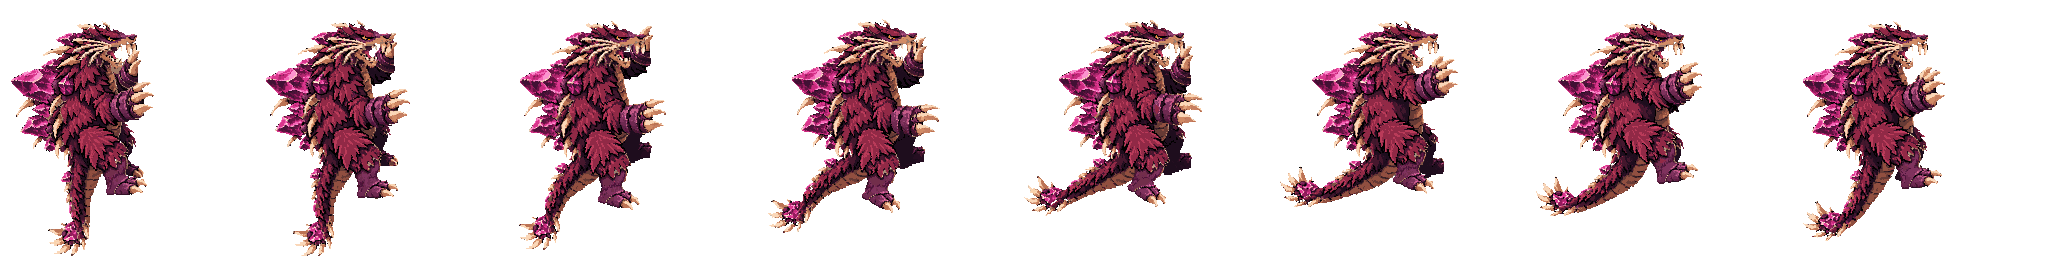
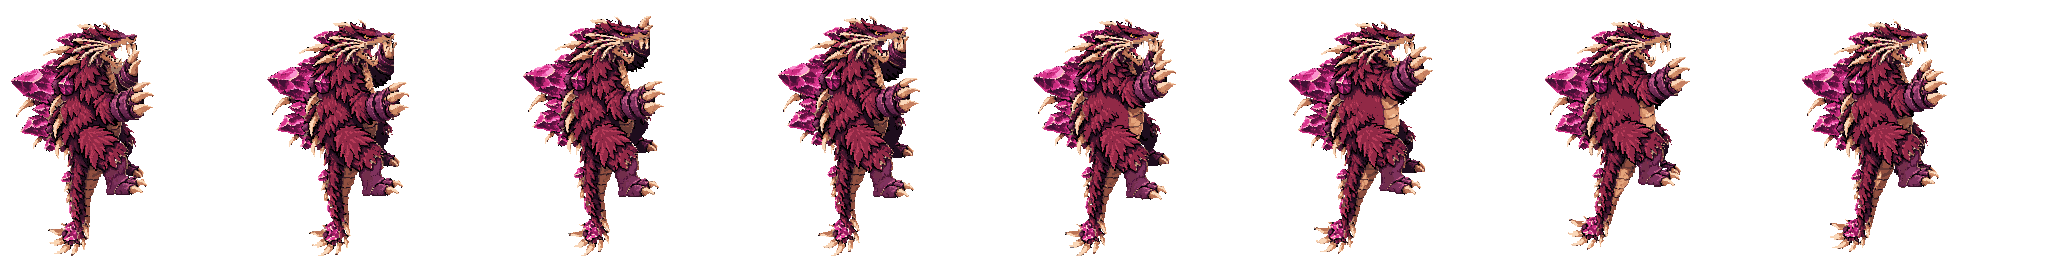
Add Mogurodon Stage 3 Ultimate and steadier climb loop
Ultimate roar (crash on impact frame 5) and ground-pound loop on the padded
base, eye restored. Climb loop re-rolled with the tail held still so the
claws stay on the wall line. Registered in stages[3].

Claude-Session: https://claude.ai/code/session_01SJ9dCxxotxnRNtgV1QVQbf

diff --git a/src/presentation.ts b/src/presentation.ts
@@ -29,7 +29,7 @@ const images=new Map<string,HTMLImageElement>();
 // full-frame 256px-wide strip (default 1) and `anchor` the frame x that lines up with the kaiju's origin (default: frame centre).
 type Strip={src:string,frames:number,fps:number,once?:boolean,impact?:number,scale?:number,anchor?:number};
 // Each kaiju has a base form (`width`/`anims`) plus optional per-stage overrides in `stages`. A stage without an entry uses the base form.
-// Mogurodon: the base art is its Stage 2 form; `stages[1]` (animated incrementally) and `stages[3]` (everything except the Ultimate so far) override Stages 1 and 3.
+// Mogurodon: the base art is its Stage 2 form; `stages[1]` (animated incrementally) and `stages[3]` (every strip) override Stages 1 and 3.
 // Within a stage form a missing animation falls back to that form's own `idle`, so a new form can ship with only a few strips.
 type Form={width:number,anims:Record<string,Strip>};
 const S1_PAD={scale:205/256,anchor:10+128*205/256};
@@ -77,7 +77,8 @@ export const SPRITES:Record<string,Form&{stages?:Record<number,Form>}>={
    rangedStand:{src:'assets/mogurodon-s3-ranged-stand.png',frames:8,fps:18,once:true,...S1_PAD},rangedCrouch:{src:'assets/mogurodon-s3-ranged-crouch.png',frames:8,fps:18,once:true},
    crouch:{src:'assets/mogurodon-s3-crouch.png',frames:4,fps:6},crouchDown:{src:'assets/mogurodon-s3-crouch-down.png',frames:5,fps:22,once:true},crouchUp:{src:'assets/mogurodon-s3-crouch-up.png',frames:5,fps:22,once:true},
    climbGrab:{src:'assets/mogurodon-s3-climb-grab.png',frames:5,fps:20,once:true,...S1_PAD},climb:{src:'assets/mogurodon-s3-climb.png',frames:8,fps:12,...S1_PAD},
-   climbMantle:{src:'assets/mogurodon-s3-climb-mantle.png',frames:9,fps:20,once:true,...S1_PAD}}}}},
+   climbMantle:{src:'assets/mogurodon-s3-climb-mantle.png',frames:9,fps:20,once:true,...S1_PAD},
+   ultRoar:{src:'assets/mogurodon-s3-ult-roar.png',frames:8,fps:14,once:true,impact:5,...S1_PAD},ultPound:{src:'assets/mogurodon-s3-ult-pound.png',frames:8,fps:16,...S1_PAD}}}}},
 };
 // Resolves the form drawn for a kaiju at a stage (stage omitted = base form).
 function form(name:string,stage?:number):Form|undefined{const s=SPRITES[name];return s&&((stage&&s.stages?.[stage])||s);}

diff --git a/README.md b/README.md
@@ -55,7 +55,7 @@ Score is earned points minus actual HP damage penalty, including healed damage. 
 
 **Art:** `public/assets/mogurodon.png` is the first final sprite (transparent, keyed from the supplied render and downscaled to 444×231). Sprites are registered in `SPRITES` in `src/presentation.ts` and used by gameplay, selection previews and the ending scene; kaiju without a sprite fall back to the geometric silhouettes. Mogurodon has an 8-frame idle loop (`public/assets/mogurodon-idle.png`, 256×144 frames, 8 fps) generated with PixelLab from the base sprite via `tools/pixellab_animate.py`; and an 8-frame all-fours walk loop (`public/assets/mogurodon-walk.png`, 10 fps, generated from a planted all-fours pose with that pose as both first and last frame so it closes cleanly) plays while moving on the ground. The light combo plays one-shot strips per hit: 1 overhead right-arm swipe (`mogurodon-swipe-right.png`, 8 frames, 24 fps), 2 left-arm swipe with the far claw raised behind the head (`mogurodon-swipe-left.png`, 10 frames, 26 fps; built from a PixelLab pose-edit keyframe plus two animated segments), 3 lunging bite (`mogurodon-bite.png`, 8 frames, 20 fps). All three start and end on idle frame 0, and idle/walk restart at frame 0 when they begin, so attacks blend in and out of the idle without a pose snap. Heavy (K): holding plays `mogurodon-heavy-rear.png` once (rear back onto the haunches), then loops `mogurodon-heavy-hold.png` while charging; release plays `mogurodon-heavy-slam.png` (overhead slam into the ground with dust, settling back to idle). These strips are 256x192 for headroom. Ranged (L): tail whips forward and flings a spike — `mogurodon-ranged-stand.png` standing (9 frames), `mogurodon-ranged-crouch.png` while crouched (8 frames), both 20 fps with the tail sweeping forward along the flank; the projectile is drawn as a bone-white quill. Crouch (S): `mogurodon-crouch-down.png` into `mogurodon-crouch.png` (breathing loop, drawn full size instead of the old 0.6 squash), `mogurodon-crouch-up.png` (reversed) on release. Jump: `mogurodon-jump-rise.png` (push-off into the leap, only when launched upward), `mogurodon-jump-air.png` (airborne loop for any time off the ground), `mogurodon-jump-land.png` (impact and recover) on touchdown; 256x192, bottom-aligned so physics alone moves him. Climb (W): `mogurodon-climb-grab.png` (swing up onto the wall), `mogurodon-climb.png` (hand-over-hand loop while ascending), `mogurodon-climb-mantle.png` (haul over onto the roof into idle); 256x256, facing the wall being climbed. The loop pauses while hanging still, and jumping off goes straight into the jump air loop. Seismic Rupture (U): `mogurodon-ult-roar.png` (rear up and roar, then slam down with a burst) followed by `mogurodon-ult-pound.png` (alternating ground-pounding loop, roughly one slam per fissure pulse) for the rest of the 2.4s Ultimate. The first fissure is delayed to the roar's crash-down (impact frame 5, ~0.36s), so Mogurodon's Ultimate sends 9 fissure pulses instead of 10. `mogurodon.png` is kept as the higher-res base/reference.
 
-**Per-stage forms:** `SPRITES[name]` is the base form (for Mogurodon, the art above is its Stage 2 design, also used for Stage 3); `stages[n]` overrides it for one stage. Inside a stage form a missing strip falls back to that form's own `idle`, while gameplay timing (`animDuration`/`animImpact`) borrows the base strip's, so combat is unchanged until a form's strips are animated. Mogurodon Stage 1 (`assets/mogurodon-s1.png`, 256x192, bottom-aligned) is the base; its 8-frame idle (`assets/mogurodon-s1-idle.png`, 8 fps) and walk (`assets/mogurodon-s1-walk.png`, 10 fps, base pose as first and last frame) loops cost one PixelLab generation each. Light combo (`light1`/`light2`/`light3`, keyed by hit order so each form picks its own moves): near (left) paw swipe, far (right) paw swipe, lunging bite (`assets/mogurodon-s1-light1..3.png`) and heavy: `assets/mogurodon-s1-heavy-rear.png` (onto the hind legs) and `assets/mogurodon-s1-heavy-slam.png` (crash and settle) are cut from one generated rear-and-slam strip, with `assets/mogurodon-s1-heavy-hold.png` (straining 4-frame loop) generated from the peak pose. Stage 1 has no tail: its ranged shot (`assets/mogurodon-s1-ranged-stand.png`) lowers the head and arches the back like a hissing cat, firing quills off the back; the projectile spawn and timing are unchanged. Crouch: `assets/mogurodon-s1-crouch-down.png` (flat stalking crouch, ~61% of standing height like Stage 2), `assets/mogurodon-s1-crouch.png` (breathing loop), `assets/mogurodon-s1-crouch-up.png` (reversed), and the crouched shot `assets/mogurodon-s1-ranged-crouch.png` (hunches into the arch from the crouch, fires, flattens back). Climb: `assets/mogurodon-s1-climb-grab.png`, `assets/mogurodon-s1-climb.png` (hand-over-hand loop) and `assets/mogurodon-s1-climb-mantle.png`, 256x256 padded strips with the front claws on the hitbox edge; the grab is shifted onto the wall line and the mantle pre-shifted to cancel the hitbox sliding onto the roof. `tools/remove_wall.py` erases the wall post PixelLab drew into the grab. The full-frame base touches the frame edge, so strips that reach forward (light1, light3, heavySlam) are generated from a padded base, `assets/mogurodon-s1-pad.png` (205px wide at x=10, made with `tools/prep_form_base.py --width 205 --x 10`), and registered with `scale`/`anchor` so they draw at the same size and position. Jump: `assets/mogurodon-s1-jump-rise.png` (9 frames, 24 fps) and `assets/mogurodon-s1-jump-air.png` (4-frame loop, 8 fps, generated from the rise's last frame) and `assets/mogurodon-s1-jump-land.png` (5 frames, 20 fps, air pose to base pose), bottom-aligned with `tools/bottom_align.py`. PixelLab washes out the gold eye after frame 0; `tools/fix_eye.py --ref assets/mogurodon-s1.png --radius 30` tracks the head and restores it. Animate further strips with `tools/pixellab_animate.py` and add strips to `stages[1].anims`. Mogurodon Stage 3 (`assets/mogurodon-s3.png`, 256x192, bottom-aligned, made with `tools/prep_form_base.py`) is the base; its 8-frame idle (`assets/mogurodon-s3-idle.png`, 8 fps) and walk (`assets/mogurodon-s3-walk.png`, 10 fps, base pose as first frame) are one PixelLab generation each, with the gold eye restored by `tools/fix_eye.py --ref assets/mogurodon-s3.png --region 65,90,205,240`. Light combo (`assets/mogurodon-s3-light1..3.png`, 8 frames each at 24/21/20 fps, one PixelLab generation per attempt): near paw strike with a pink crystal slash arc, far paw swipe, low stretching lunge-bite. light1 and light3 come from a padded base (`assets/mogurodon-s3-pad.png`, 205px wide at x=10) and use `S1_PAD`; light2 uses the full-frame base. light2's mid-swing frames turn the head toward the camera, so the eye stamp is limited to frames 0-3 and 7 (`fix_eye.py --only`). Heavy: one 16-frame rear-and-slam generation from the padded base (2 generations), cut into `assets/mogurodon-s3-heavy-rear.png` (frames 0-4, up onto the hind legs, 20 fps) and `assets/mogurodon-s3-heavy-slam.png` (frames 8-15, peak into the crash with a pink crystal burst, dust and recovery, 16 fps, hit lands one frame after release), plus `assets/mogurodon-s3-heavy-hold.png` (4-frame straining loop, 10 fps, generated from the peak pose with it as first and last frame). All padded (`S1_PAD`). The eye is only stamped on profile frames (rear 0-2, slam 4-7); it is hidden or washed out on the reared frames. Jump: `assets/mogurodon-s3-jump-rise.png` (9 frames, 24 fps: crouch, spring, extended leap), `assets/mogurodon-s3-jump-air.png` (4-frame loop, 8 fps, generated from the rise's last frame) and `assets/mogurodon-s3-jump-land.png` (5 frames, 20 fps, air pose into landing squash and recovery to the base pose), bottom-aligned with `tools/bottom_align.py` and the eye restored with `fix_eye.py --radius 40` (the head drops far in the crouch and squash). Full-frame, no padding. Ranged: `assets/mogurodon-s3-ranged-stand.png` (8 frames, 18 fps, padded `S1_PAD`) is the tail shot: the spiked crystal tail curls over the back and flings a crystal shard forward, then recovers (1 generation; a stray clipped shard fragment on frame 4 was erased, and the eye is only stamped on frames 0-2 and 5-7). The projectile spawn and timing are unchanged. Crouch: `assets/mogurodon-s3-crouch-down.png` (5 frames, 22 fps), `assets/mogurodon-s3-crouch.png` (4-frame breathing loop, 6 fps), `assets/mogurodon-s3-crouch-up.png` (crouch-down reversed) and the crouched tail shot `assets/mogurodon-s3-ranged-crouch.png` (8 frames, 18 fps, shard arcs up and over the back). Full-frame, bottom-aligned. The crouch only reaches ~84% of standing height in the art (the tall back crystal dominates the silhouette; the first attempt got 92%, three re-rolls with a flat-against-the-ground prompt gave ~84%), though the body itself is flat. The crouch pose lost its eye, so `crouch0-eye` (the last crouch-down frame with the base eye stamped on by hand) was the `fix_eye.py` reference for the crouch strips (`--region 130,155,205,240`); crouch-down frame 2 is left unstamped because the tracker missed the head there, and a stray shard sliver on ranged-crouch frame 6 was erased. Climb: `assets/mogurodon-s3-climb-grab.png` (5 frames, 20 fps), `assets/mogurodon-s3-climb.png` (8-frame loop, 12 fps) and `assets/mogurodon-s3-climb-mantle.png` (9 frames, 20 fps), 256x256 padded strips (`S1_PAD`) generated from the padded base placed bottom-aligned in a 256x256 frame (`pad256`; 5 generations: the first grab came out with a long trailing tail that could not fit the wall line plus a painted wall, so it was re-rolled with two seeds and a tail-hanging-straight-down prompt, then one generation each for the loop and the mantle from the chosen grab pose). The front claws sit on the hitbox edge (frame x=153, hitbox half-width 24 in Stage 1 frame px) for the vertical frames; the grab's vertical frames and the loop are shifted onto that line (and feet to the bottom row), the mantle is pre-shifted 25px left of that and decays to 0 by the base-pose last frame to cancel the hitbox sliding onto the roof (`game.ts` moves it by 0.3 body widths on mantling). Shifts are clamped so the tail is never clipped, so on loop frames 3-5 (the tail kick) the claws drift out to x~178 and mantle frame 0 sits at x~142 instead of 128. The eye was stamped by hand into the climbing pose (`cgpose-eye`) and restored with `fix_eye.py` (frames 0-6 of the mantle use it, frames 6-8 the padded base). Add further strips to `stages[3].anims`. `tools/prep_form_base.py` keys a black-background render and fits it into a frame for that.
+**Per-stage forms:** `SPRITES[name]` is the base form (for Mogurodon, the art above is its Stage 2 design, also used for Stage 3); `stages[n]` overrides it for one stage. Inside a stage form a missing strip falls back to that form's own `idle`, while gameplay timing (`animDuration`/`animImpact`) borrows the base strip's, so combat is unchanged until a form's strips are animated. Mogurodon Stage 1 (`assets/mogurodon-s1.png`, 256x192, bottom-aligned) is the base; its 8-frame idle (`assets/mogurodon-s1-idle.png`, 8 fps) and walk (`assets/mogurodon-s1-walk.png`, 10 fps, base pose as first and last frame) loops cost one PixelLab generation each. Light combo (`light1`/`light2`/`light3`, keyed by hit order so each form picks its own moves): near (left) paw swipe, far (right) paw swipe, lunging bite (`assets/mogurodon-s1-light1..3.png`) and heavy: `assets/mogurodon-s1-heavy-rear.png` (onto the hind legs) and `assets/mogurodon-s1-heavy-slam.png` (crash and settle) are cut from one generated rear-and-slam strip, with `assets/mogurodon-s1-heavy-hold.png` (straining 4-frame loop) generated from the peak pose. Stage 1 has no tail: its ranged shot (`assets/mogurodon-s1-ranged-stand.png`) lowers the head and arches the back like a hissing cat, firing quills off the back; the projectile spawn and timing are unchanged. Crouch: `assets/mogurodon-s1-crouch-down.png` (flat stalking crouch, ~61% of standing height like Stage 2), `assets/mogurodon-s1-crouch.png` (breathing loop), `assets/mogurodon-s1-crouch-up.png` (reversed), and the crouched shot `assets/mogurodon-s1-ranged-crouch.png` (hunches into the arch from the crouch, fires, flattens back). Climb: `assets/mogurodon-s1-climb-grab.png`, `assets/mogurodon-s1-climb.png` (hand-over-hand loop) and `assets/mogurodon-s1-climb-mantle.png`, 256x256 padded strips with the front claws on the hitbox edge; the grab is shifted onto the wall line and the mantle pre-shifted to cancel the hitbox sliding onto the roof. `tools/remove_wall.py` erases the wall post PixelLab drew into the grab. The full-frame base touches the frame edge, so strips that reach forward (light1, light3, heavySlam) are generated from a padded base, `assets/mogurodon-s1-pad.png` (205px wide at x=10, made with `tools/prep_form_base.py --width 205 --x 10`), and registered with `scale`/`anchor` so they draw at the same size and position. Jump: `assets/mogurodon-s1-jump-rise.png` (9 frames, 24 fps) and `assets/mogurodon-s1-jump-air.png` (4-frame loop, 8 fps, generated from the rise's last frame) and `assets/mogurodon-s1-jump-land.png` (5 frames, 20 fps, air pose to base pose), bottom-aligned with `tools/bottom_align.py`. PixelLab washes out the gold eye after frame 0; `tools/fix_eye.py --ref assets/mogurodon-s1.png --radius 30` tracks the head and restores it. Animate further strips with `tools/pixellab_animate.py` and add strips to `stages[1].anims`. Mogurodon Stage 3 (`assets/mogurodon-s3.png`, 256x192, bottom-aligned, made with `tools/prep_form_base.py`) is the base; its 8-frame idle (`assets/mogurodon-s3-idle.png`, 8 fps) and walk (`assets/mogurodon-s3-walk.png`, 10 fps, base pose as first frame) are one PixelLab generation each, with the gold eye restored by `tools/fix_eye.py --ref assets/mogurodon-s3.png --region 65,90,205,240`. Light combo (`assets/mogurodon-s3-light1..3.png`, 8 frames each at 24/21/20 fps, one PixelLab generation per attempt): near paw strike with a pink crystal slash arc, far paw swipe, low stretching lunge-bite. light1 and light3 come from a padded base (`assets/mogurodon-s3-pad.png`, 205px wide at x=10) and use `S1_PAD`; light2 uses the full-frame base. light2's mid-swing frames turn the head toward the camera, so the eye stamp is limited to frames 0-3 and 7 (`fix_eye.py --only`). Heavy: one 16-frame rear-and-slam generation from the padded base (2 generations), cut into `assets/mogurodon-s3-heavy-rear.png` (frames 0-4, up onto the hind legs, 20 fps) and `assets/mogurodon-s3-heavy-slam.png` (frames 8-15, peak into the crash with a pink crystal burst, dust and recovery, 16 fps, hit lands one frame after release), plus `assets/mogurodon-s3-heavy-hold.png` (4-frame straining loop, 10 fps, generated from the peak pose with it as first and last frame). All padded (`S1_PAD`). The eye is only stamped on profile frames (rear 0-2, slam 4-7); it is hidden or washed out on the reared frames. Jump: `assets/mogurodon-s3-jump-rise.png` (9 frames, 24 fps: crouch, spring, extended leap), `assets/mogurodon-s3-jump-air.png` (4-frame loop, 8 fps, generated from the rise's last frame) and `assets/mogurodon-s3-jump-land.png` (5 frames, 20 fps, air pose into landing squash and recovery to the base pose), bottom-aligned with `tools/bottom_align.py` and the eye restored with `fix_eye.py --radius 40` (the head drops far in the crouch and squash). Full-frame, no padding. Ranged: `assets/mogurodon-s3-ranged-stand.png` (8 frames, 18 fps, padded `S1_PAD`) is the tail shot: the spiked crystal tail curls over the back and flings a crystal shard forward, then recovers (1 generation; a stray clipped shard fragment on frame 4 was erased, and the eye is only stamped on frames 0-2 and 5-7). The projectile spawn and timing are unchanged. Crouch: `assets/mogurodon-s3-crouch-down.png` (5 frames, 22 fps), `assets/mogurodon-s3-crouch.png` (4-frame breathing loop, 6 fps), `assets/mogurodon-s3-crouch-up.png` (crouch-down reversed) and the crouched tail shot `assets/mogurodon-s3-ranged-crouch.png` (8 frames, 18 fps, shard arcs up and over the back). Full-frame, bottom-aligned. The crouch only reaches ~84% of standing height in the art (the tall back crystal dominates the silhouette; the first attempt got 92%, three re-rolls with a flat-against-the-ground prompt gave ~84%), though the body itself is flat. The crouch pose lost its eye, so `crouch0-eye` (the last crouch-down frame with the base eye stamped on by hand) was the `fix_eye.py` reference for the crouch strips (`--region 130,155,205,240`); crouch-down frame 2 is left unstamped because the tracker missed the head there, and a stray shard sliver on ranged-crouch frame 6 was erased. Climb: `assets/mogurodon-s3-climb-grab.png` (5 frames, 20 fps), `assets/mogurodon-s3-climb.png` (8-frame loop, 12 fps) and `assets/mogurodon-s3-climb-mantle.png` (9 frames, 20 fps), 256x256 padded strips (`S1_PAD`) generated from the padded base placed bottom-aligned in a 256x256 frame (`pad256`; 5 generations: the first grab came out with a long trailing tail that could not fit the wall line plus a painted wall, so it was re-rolled with two seeds and a tail-hanging-straight-down prompt, then one generation each for the loop and the mantle from the chosen grab pose). The front claws sit on the hitbox edge (frame x=153, hitbox half-width 24 in Stage 1 frame px) for the vertical frames; the grab's vertical frames and the loop are shifted onto that line (and feet to the bottom row), the mantle is pre-shifted 25px left of that and decays to 0 by the base-pose last frame to cancel the hitbox sliding onto the roof (`game.ts` moves it by 0.3 body widths on mantling). The climb loop was re-rolled (seed 9, tail hanging still against the legs) after the first one's tail kick forced clamped shifts that pushed the claws out to x~178; the current loop keeps the claws at x=151-154 on every frame. The grab and mantle were not re-rolled, so mantle frame 0 sits at x~142 instead of 128 where the tail-width clamp bit. The eye was stamped by hand into the climbing pose (`cgpose-eye`) and restored with `fix_eye.py` (frames 0-6 of the mantle use it, frames 6-8 the padded base). Ultimate: `assets/mogurodon-s3-ult-roar.png` (8 frames, 14 fps, `impact:5`, padded `S1_PAD`) and `assets/mogurodon-s3-ult-pound.png` (8-frame ground-pound loop, 16 fps, `S1_PAD`). The roar was generated as one 16-frame strip (2 generations, 17 frames returned) and subsampled to frames 0,2,3,5,9,11,13,16 so the crash with the crystal-energy burst lands on index 5, matching the impact frame the game syncs the first fissure to; it rears up, roars, slams down in a crystal eruption and ends low on the ground. The pound loop is one generation from the padded base (one claw raised and slammed per loop with sparks, last frame closing back toward the base pose). The eye was restored with `fix_eye.py` against the padded base (roar frames 0,1,6,7; every pound frame); it is hidden on the upright roaring frames. Add further strips to `stages[3].anims`. `tools/prep_form_base.py` keys a black-background render and fits it into a frame for that.
 
 No user sprites were imported or overwritten; supplied documents were preserved. All current art is explicitly temporary Canvas geometry, with no AI asset generation or sound. Put final hand-drawn sprites in `public/assets/`, preserve transparent originals, use bottom-center anchors, integer frame rectangles and nearest-neighbor filtering. Final kaiju sheets, building/unit sprites, intro/menu and six ending illustrations remain missing.
 
